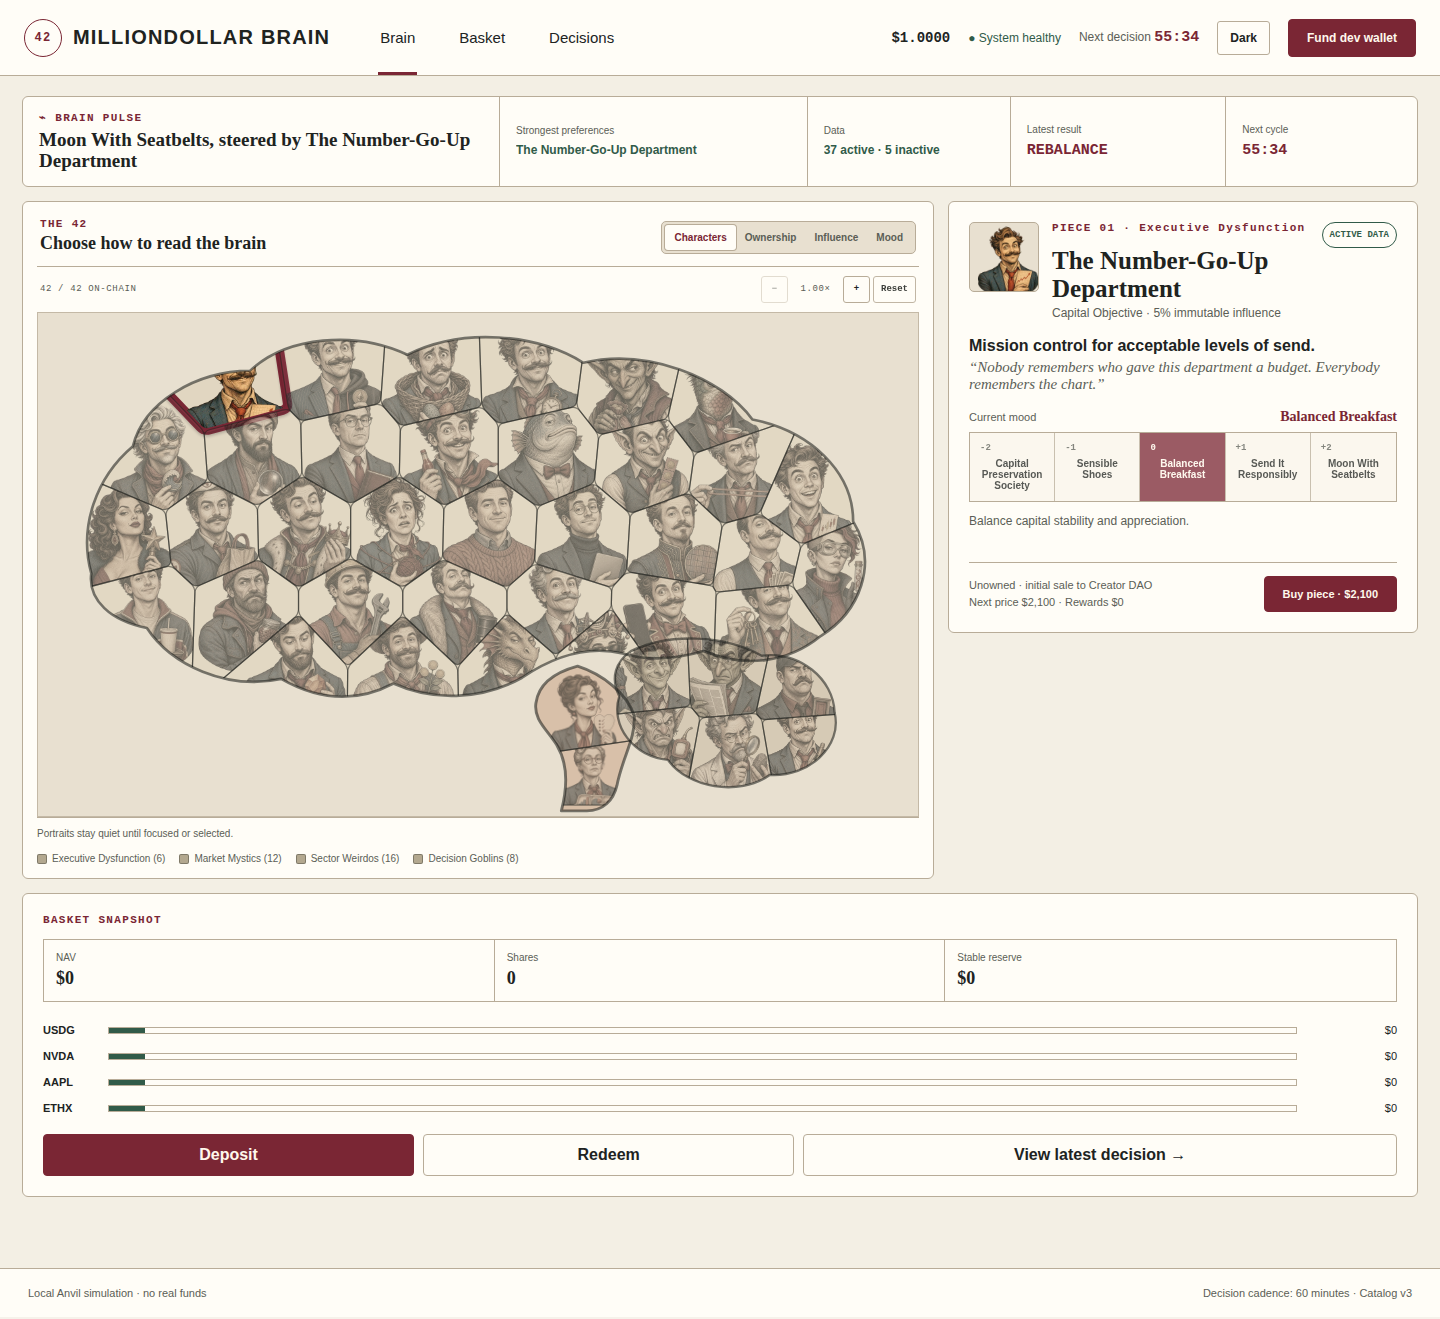
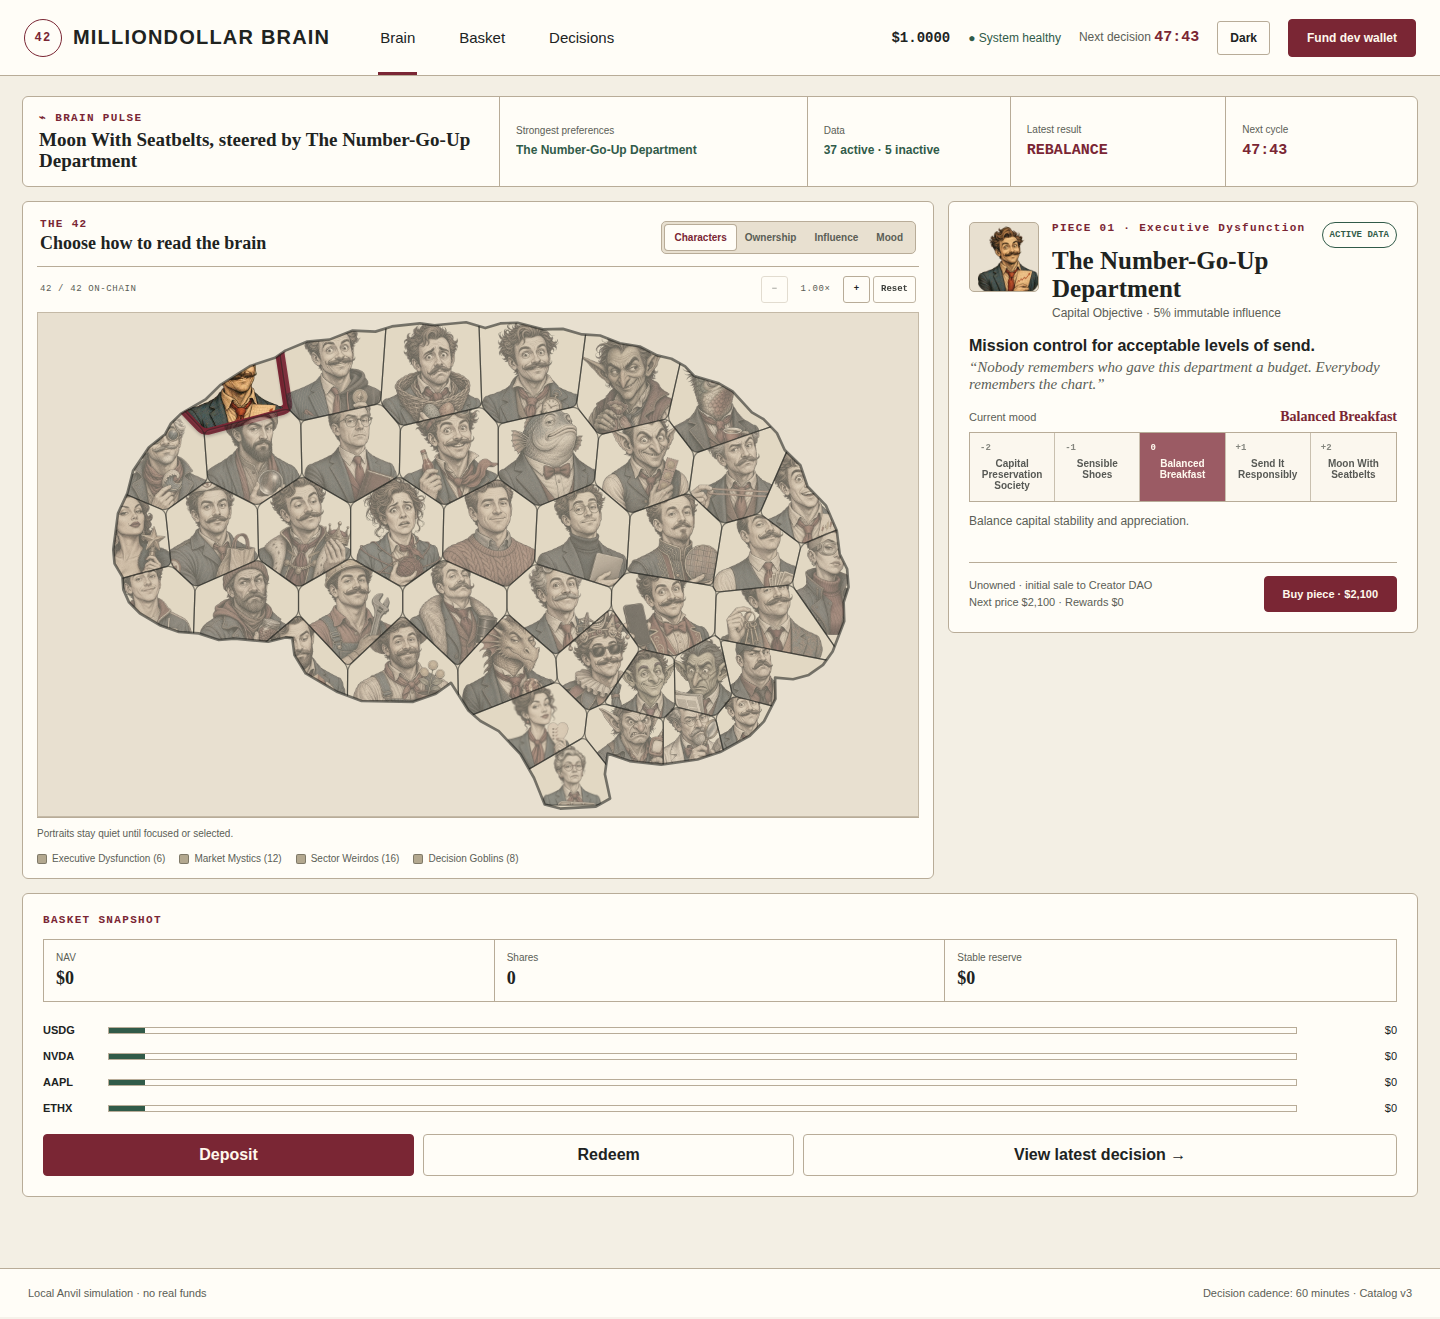
Unify the mosaic under a traced brain silhouette

diff --git a/apps/web/lib/brain-presentation.ts b/apps/web/lib/brain-presentation.ts
@@ -24,14 +24,8 @@ type Placement = {
   portraitY?: number;
 };
 
-export const BRAIN_REGION_PATHS: Record<BrainRegion, string> = {
-  cerebrum:
-    "M46 225C35 185 50 142 82 115C91 77 137 50 183 50C215 20 274 15 319 36C367 12 431 18 471 43C525 30 590 55 617 92C667 102 704 137 704 180C726 216 710 258 676 279C648 302 610 307 575 292C548 300 525 300 505 294C470 286 440 300 418 315C382 335 340 335 307 320C271 339 238 332 210 316C163 326 115 304 94 272C63 266 43 248 46 225Z",
-  cerebellum:
-    "M512 292C545 276 593 278 625 296C658 292 687 316 688 345C695 374 666 401 632 399C605 418 561 410 544 386C514 383 494 356 502 331C494 315 499 301 512 292Z",
-  brainstem:
-    "M466 305C488 312 509 329 515 348C516 368 505 383 500 408C497 421 488 430 474 430L452 430C458 407 457 388 448 373C439 359 428 351 430 337C432 322 444 311 466 305Z",
-};
+export const BRAIN_SILHOUETTE_PATH =
+  "M451 428L481.8 426.3L494.1 419.3L489.6 398.3L492 380.5L510.9 387L538.2 390.1L569.6 385.6L589.2 379.2L614.7 365.1L627 352.7L636.9 333.3L636.6 314.9L652.1 316.3L665.7 312.6L678 303.9L686.3 292.4L696.3 266.2L695.8 249.9L700 236.8L698.8 221.1L692.4 208.3L689.9 188.1L680.4 166.1L664.6 149.8L658.4 131.5L644.9 118.3L638.2 103.7L626.6 91.7L616.5 85.9L599.9 67.7L588 60.8L566.7 54.4L558.9 46.1L547.1 39.5L534.7 36.6L519.8 28.9L502.6 26.1L485.4 19.4L469.9 18.5L453.3 13.7L436.1 14.1L414.2 8.4L399.3 9L386.3 13L369.7 8L342.4 10.6L329.9 8.9L305.6 11.6L291.4 16.1L271.8 15.2L251.6 23L232.6 24.6L213.6 32.5L204.7 38.7L183.4 45.7L157.3 62.3L145.1 74.3L123.5 86.9L114.8 95.3L109.8 104.7L95.6 116.2L82.1 136.2L77.2 155.6L69.1 172.9L65 204.3L66.1 216.4L72.9 227.9L73.7 238.9L78.6 249.9L87.9 259.3L105.1 269.6L121.7 275.5L138.8 276.7L156.1 282.4L169.7 281.2L198.8 283.9L213.6 280.2L219.6 280.9L221.5 295.5L231.2 311.3L258.7 327.4L279.5 335.1L324 335.8L343.6 328.8L356.6 319.4L371.7 343.3L382.1 352.4L397.9 361.1L416.6 381L428.4 401.6L437.6 424.5Z";
 
 const rows: readonly (readonly Placement[])[] = [
   [
@@ -82,8 +76,8 @@ const rows: readonly (readonly Placement[])[] = [
     {
       id: 35,
       region: "cerebellum",
-      x: 530,
-      y: 319,
+      x: 525,
+      y: 326,
       rx: 45,
       ry: 38,
       portraitScale: 0.88,
@@ -91,8 +85,8 @@ const rows: readonly (readonly Placement[])[] = [
     {
       id: 36,
       region: "cerebellum",
-      x: 595,
-      y: 316,
+      x: 575,
+      y: 325,
       rx: 45,
       ry: 38,
       portraitScale: 0.88,
@@ -100,8 +94,8 @@ const rows: readonly (readonly Placement[])[] = [
     {
       id: 37,
       region: "cerebellum",
-      x: 655,
-      y: 329,
+      x: 620,
+      y: 315,
       rx: 42,
       ry: 38,
       portraitScale: 0.82,
@@ -111,8 +105,8 @@ const rows: readonly (readonly Placement[])[] = [
     {
       id: 38,
       region: "cerebellum",
-      x: 535,
-      y: 367,
+      x: 515,
+      y: 365,
       rx: 43,
       ry: 36,
       portraitScale: 0.84,
@@ -120,8 +114,8 @@ const rows: readonly (readonly Placement[])[] = [
     {
       id: 39,
       region: "cerebellum",
-      x: 600,
-      y: 379,
+      x: 565,
+      y: 365,
       rx: 43,
       ry: 36,
       portraitScale: 0.84,
@@ -129,8 +123,8 @@ const rows: readonly (readonly Placement[])[] = [
     {
       id: 40,
       region: "cerebellum",
-      x: 658,
-      y: 369,
+      x: 610,
+      y: 354,
       rx: 40,
       ry: 36,
       portraitScale: 0.78,
@@ -140,8 +134,8 @@ const rows: readonly (readonly Placement[])[] = [
     {
       id: 41,
       region: "brainstem",
-      x: 470,
-      y: 348,
+      x: 430,
+      y: 355,
       rx: 34,
       ry: 38,
       portraitScale: 0.72,
@@ -149,8 +143,8 @@ const rows: readonly (readonly Placement[])[] = [
     {
       id: 42,
       region: "brainstem",
-      x: 478,
-      y: 402,
+      x: 461,
+      y: 408,
       rx: 34,
       ry: 34,
       portraitScale: 0.68,
@@ -198,7 +192,7 @@ function roundedVoronoiPath(source: Placement) {
     { x: 28, y: 425 },
   ];
   for (const target of allPlacements) {
-    if (target.id === source.id || target.region !== source.region) continue;
+    if (target.id === source.id) continue;
     const a = 2 * (target.x - source.x);
     const b = 2 * (target.y - source.y);
     const limit =

diff --git a/apps/web/components/brain-map.tsx b/apps/web/components/brain-map.tsx
@@ -11,7 +11,7 @@ import { formatUnits } from "viem";
 import {
   BRAIN_PRESENTATION,
   BRAIN_PRESENTATION_BY_ID,
-  BRAIN_REGION_PATHS,
+  BRAIN_SILHOUETTE_PATH,
   type BrainDirection,
   type BrainMapMode,
 } from "../lib/brain-presentation";
@@ -232,15 +232,8 @@ export function BrainMap({
             >
               <defs>
                 <clipPath id="brain-boundary">
-                  {Object.entries(BRAIN_REGION_PATHS).map(([region, path]) => (
-                    <path d={path} key={region} />
-                  ))}
+                  <path d={BRAIN_SILHOUETTE_PATH} />
                 </clipPath>
-                {Object.entries(BRAIN_REGION_PATHS).map(([region, path]) => (
-                  <clipPath id={`brain-region-${region}`} key={region}>
-                    <path d={path} />
-                  </clipPath>
-                ))}
                 <pattern
                   id="ownership-owned"
                   width="8"
@@ -263,16 +256,11 @@ export function BrainMap({
                   </clipPath>
                 ))}
               </defs>
-              {(["brainstem", "cerebellum", "cerebrum"] as const).map(
-                (region) => (
-                  <path
-                    className={`brain-backplate region-${region}`}
-                    d={BRAIN_REGION_PATHS[region]}
-                    key={region}
-                    aria-hidden="true"
-                  />
-                ),
-              )}
+              <path
+                className="brain-backplate"
+                d={BRAIN_SILHOUETTE_PATH}
+                aria-hidden="true"
+              />
               <g clipPath="url(#brain-boundary)">
                 {pieces.map((piece) => {
                   const presentation = BRAIN_PRESENTATION_BY_ID.get(piece.id);
@@ -301,7 +289,7 @@ export function BrainMap({
                         } as CSSProperties
                       }
                       key={piece.id}
-                      clipPath={`url(#brain-region-${presentation.region})`}
+                      data-region={presentation.region}
                       role="button"
                       tabIndex={selectedId === piece.id ? 0 : -1}
                       aria-label={label}
@@ -346,16 +334,11 @@ export function BrainMap({
                   );
                 })}
               </g>
-              {(["brainstem", "cerebellum", "cerebrum"] as const).map(
-                (region) => (
-                  <path
-                    className={`brain-outline region-${region}`}
-                    d={BRAIN_REGION_PATHS[region]}
-                    key={region}
-                    aria-hidden="true"
-                  />
-                ),
-              )}
+              <path
+                className="brain-outline"
+                d={BRAIN_SILHOUETTE_PATH}
+                aria-hidden="true"
+              />
             </svg>
             {previewPiece &&
               (() => {

diff --git a/apps/web/app/globals.css b/apps/web/app/globals.css
@@ -1407,20 +1407,8 @@ footer {
   fill: color-mix(in srgb, var(--surface-subtle) 76%, #c9b88f);
   stroke: none;
 }
-.brain-backplate.region-cerebellum {
-  fill: color-mix(in srgb, var(--surface-subtle) 68%, #a99672);
-}
-.brain-backplate.region-brainstem {
-  fill: color-mix(in srgb, var(--surface-subtle) 62%, #b8845e);
-}
 .editorial-dark .brain-backplate {
   fill: color-mix(in srgb, var(--surface-subtle) 88%, #5b5143);
-}
-.editorial-dark .brain-backplate.region-cerebellum {
-  fill: color-mix(in srgb, var(--surface-subtle) 78%, #665846);
-}
-.editorial-dark .brain-backplate.region-brainstem {
-  fill: color-mix(in srgb, var(--surface-subtle) 70%, #735548);
 }
 .brain-outline {
   fill: none;
@@ -1428,12 +1416,6 @@ footer {
   stroke-width: 2.3;
   stroke-linejoin: round;
   pointer-events: none;
-}
-.brain-outline.region-cerebellum {
-  stroke-width: 2;
-}
-.brain-outline.region-brainstem {
-  stroke-width: 2.5;
 }
 .brain-cell {
   cursor: pointer;

diff --git a/MEMORY.md b/MEMORY.md
@@ -5,7 +5,7 @@ Durable project context lives here. Update this file whenever information should
 ## Active Handoff
 
 - Current task: Finish and verify the usable local-devnet release on VM `192.168.50.135`.
-- Last meaningful change: Replaced the blob-like mosaic mask and mismatched raster brain with an authored lateral-anatomy SVG composed of a cerebrum, lower-rear cerebellum, and tapered brainstem.
+- Last meaningful change: Replaced the failed three-blob anatomy with one continuous SVG silhouette traced from the anatomically convincing source artwork; all 42 cells now share that mask.
 - Next step: Keep the native services healthy and use the release at `http://192.168.50.135:3000`; Robinhood public testnet work begins only when canonical asset, oracle, venue, signer, and RPC inputs are supplied.
 - Blockers: None for local use. Real-value activation remains gated on counsel, production integrations and credentials, multisig/timelock migration, a professional audit, and Robinhood Chain release manifests.
 
@@ -13,7 +13,7 @@ Durable project context lives here. Update this file whenever information should
 
 - MillionDollar Brain is a proposed Robinhood Chain product combining a basket-backed share, a 42-piece community-controlled AI context, scheduled portfolio proposals, deterministic risk controls, and fee-funded creator/brain rewards.
 - The authoritative VM repository contains a working local Anvil release with upgradeable contracts, a Next.js application, built-in development wallet, hourly Ornith allocator, systemd services, and Playwright Chromium UAT.
-- The 42-piece visual brain uses 34 cerebrum pieces, 6 cerebellum pieces, and 2 brainstem pieces while preserving every canonical NFT ID and all economic mappings.
+- The 42-piece visual brain uses one continuous traced lateral silhouette. Semantic placement metadata labels 34 cerebrum pieces, 6 cerebellum pieces, and 2 brainstem pieces while preserving every canonical NFT ID and all economic mappings.
 - `PRD.md` v1.0 plus its ten linked normative specifications is the authoritative requirements set.
 - `PRODUCT_BRIEF.md` is superseded historical context.
 - No internal MVP implementation decision remains open. `BUILD_READINESS.md` distinguishes locked engineering defaults from external production inputs and release gates.
@@ -131,11 +131,11 @@ When sources conflict, use this order:
 ### 2026-07-26 - Anatomical Brain Silhouette
 
 - Context: The rounded global mask and stretched raster background made the 42-piece mosaic read as a blob rather than a convincing brain.
-- Decision: Make the SVG presentation manifest the anatomical source of truth. Use separate lateral cerebrum, lower-rear cerebellum, and tapered brainstem regions containing 34, 6, and 2 pieces respectively. Retire the raster brain background.
+- Decision: Make the SVG presentation manifest the anatomical source of truth. Trace one continuous outer contour from the convincing anatomical source and tessellate all 42 cells inside it. Keep 34 cerebrum, 6 cerebellum, and 2 brainstem labels as placement metadata only, with no separate region outlines. Retire the raster brain background.
 - Files: `apps/web/lib/brain-presentation.ts`, `apps/web/components/brain-map.tsx`, `apps/web/app/globals.css`, `tests/uat.mjs`, `PRD.md`, `DESIGN_SYSTEM.md`, `BUILD_READINESS.md`, `design/brain-art/README.md`.
 - Commands/tests: Prettier, Next.js production build, clean-state Chromium UAT, live Ornith cycle, light/dark/mobile screenshot review.
-- Result: The mosaic has a recognizable lateral brain profile, distinct cerebellum and fissure, and tapered brainstem without changing NFT identities, contracts, APIs, wallet behavior, or economics.
-- Follow-up: None for local release; retain the three-region anatomy if portrait transforms are adjusted later.
+- Result: The mosaic has a recognizable continuous lateral brain profile without changing NFT identities, contracts, APIs, wallet behavior, or economics.
+- Follow-up: None for local release; retain the single shared outer mask if portrait transforms are adjusted later.
 
 ### 2026-07-23 - User-Triggered Portfolio Reviews
 

diff --git a/PRD.md b/PRD.md
@@ -659,7 +659,7 @@ The accepted editorial mockups below are normative parts of the PRD. `DESIGN_SYS
 
 ![Brain dark mode](design/mockups/brain-screen-v3-refined-dark.png)
 
-The implemented Brain map uses 42 individually generated v2 catalog-character portraits inside an authored lateral-anatomy SVG silhouette. The silhouette separates 34 cerebrum pieces, 6 lower-rear cerebellum pieces, and 2 angled brainstem pieces, making the brain recognizable without relying on a mismatched raster background. A separate 42-entry presentation manifest owns region membership, curved segment geometry, visual centers, directional keyboard neighbors, and portrait transforms without changing the canonical economic catalog. Characters is the quiet default view; Ownership, Influence, and Mood expose distinct semantic layers with textual legends and counts. Hover and focus preview a tooltip without changing selection. Click, tap, Enter, and Space select; arrows use explicit spatial neighbors; Home and End select the canonical first and last pieces. The map supports 1 through 2.5 times zoom in a native scrolling viewport, and mobile adds a searchable List view. The complete inspector permanently occupies the desktop right rail, Brain Pulse is a full-width summary strip, and Basket Snapshot follows the primary area. Numbers and generic glyphs do not cover the portraits. The final art roster and generation direction are recorded in [`design/brain-art/README.md`](design/brain-art/README.md).
+The implemented Brain map uses 42 individually generated v2 catalog-character portraits inside one continuous anatomically traced lateral-brain SVG silhouette. The trace supplies a convincing crown, frontal profile, temporal underside, connected cerebellar mass, and brainstem without relying on a mismatched raster background or separate blob outlines. The presentation manifest labels 34 pieces as cerebrum, 6 as cerebellum, and 2 as brainstem to guide placement, but all 42 cells share one outer mask and one tessellation. The manifest also owns curved segment geometry, visual centers, directional keyboard neighbors, and portrait transforms without changing the canonical economic catalog. Characters is the quiet default view; Ownership, Influence, and Mood expose distinct semantic layers with textual legends and counts. Hover and focus preview a tooltip without changing selection. Click, tap, Enter, and Space select; arrows use explicit spatial neighbors; Home and End select the canonical first and last pieces. The map supports 1 through 2.5 times zoom in a native scrolling viewport, and mobile adds a searchable List view. The complete inspector permanently occupies the desktop right rail, Brain Pulse is a full-width summary strip, and Basket Snapshot follows the primary area. Numbers and generic glyphs do not cover the portraits. The final art roster and generation direction are recorded in [`design/brain-art/README.md`](design/brain-art/README.md).
 
 #### Basket
 

diff --git a/design/brain-art/README.md b/design/brain-art/README.md
@@ -3,7 +3,7 @@
 The Brain screen uses a hybrid art and interaction system:
 
 - `apps/web/public/brain-art/v2/piece-01.webp` through `piece-42.webp` are the current transparent collectible portraits in canonical catalog order. The versioned directory prevents stale browser caches.
-- `apps/web/lib/brain-presentation.ts` is the 42-entry visual manifest and anatomical source of truth. It defines the cerebrum, lower-rear cerebellum, angled brainstem, curved path geometry, centers, directional keyboard neighbors, and portrait transforms separately from economic catalog data.
+- `apps/web/lib/brain-presentation.ts` is the 42-entry visual manifest and anatomical source of truth. It contains one continuous traced lateral-brain silhouette plus semantic cerebrum, cerebellum, and brainstem placement metadata, curved path geometry, centers, directional keyboard neighbors, and portrait transforms separately from economic catalog data.
 - `apps/web/components/brain-map.tsx` uses those 42 accessible SVG paths for hit testing, roving keyboard focus, ownership state, selection, data-mode fills, and clipping.
 - The raster artwork is presentation only. It never replaces the accessible SVG interaction model or the on-chain piece identity.
 
@@ -25,7 +25,7 @@ The magenta sources were keyed with the ImageGen chroma-key helper, downsampled 
 - The 42 v2 portraits total approximately 1.8 MB.
 - Portraits are clipped to their own curved SVG segment.
 - Theme-aware vector backplates remain visible below transparent portrait areas.
-- The anatomical distribution is 34 cerebrum pieces, 6 cerebellum pieces, and 2 brainstem pieces. This presentation grouping does not alter catalog IDs or economics.
+- The anatomical distribution is 34 cerebrum pieces, 6 cerebellum pieces, and 2 brainstem pieces. These labels guide placement only: every cell is tessellated inside the same continuous outer mask. This presentation grouping does not alter catalog IDs or economics.
 - Characters mode uses 58% opacity and 35% saturation at rest, 85% on preview, and full color on selection.
 - Ownership, Influence, and Mood may neutralize portraits while accessible legends and the selected-piece inspector communicate the underlying value.
 - Accessible names come from catalog data, not text embedded in the image.

diff --git a/BUILD_READINESS.md b/BUILD_READINESS.md
@@ -7,7 +7,7 @@
 
 The native VM release implements the complete catalog-v3 collection: 42 named ERC-721 characters, four crews, protocol-authored lore, five closed moods per character, immutable portfolio affinities, and signed intensity from -2 through +2. It also implements always-for-sale pricing, basket shares, 1% entry and redemption fees, the 50/40/10 fee split, creator withdrawal vault, owner reward claims, 1%-of-NAV immediate redemption, cancellable FIFO queued redemption with partial 5%-of-NAV hourly settlement, structured allocator context, deterministic output validation, keeper authentication, and systemd scheduling.
 
-The frontend now implements the normative screen hierarchy rather than a consolidated card dashboard: an accessible interactive 42-path SVG Brain marketplace with an authored lateral-anatomy silhouette, 42 individually generated v2 character portraits, four data modes, roving keyboard navigation, map zoom, a searchable mobile list, compact Brain Pulse, and a complete selected-piece right rail. The silhouette has distinct cerebrum, cerebellum, and brainstem regions while SVG remains the interaction and clipping layer. Both editorial light and dark modes are validated against live normative screenshots.
+The frontend now implements the normative screen hierarchy rather than a consolidated card dashboard: an accessible interactive 42-path SVG Brain marketplace with one continuous anatomically traced lateral-brain silhouette, 42 individually generated v2 character portraits, four data modes, roving keyboard navigation, map zoom, a searchable mobile list, compact Brain Pulse, and a complete selected-piece right rail. Cerebrum, cerebellum, and brainstem metadata guide portrait placement without producing separate blob outlines. Both editorial light and dark modes are validated against live normative screenshots.
 
 The Anvil universe intentionally uses four mocks: USDG, NVDA, AAPL, and ETHX. Robinhood Chain asset discovery, canonical live manifests, production oracle/DEX adapters, full ten-position risk limits, multisig/timelock administration, observability, legal review, and independent audits remain release gates rather than unfinished local-product interactions.
 

diff --git a/DESIGN_SYSTEM.md b/DESIGN_SYSTEM.md
@@ -168,7 +168,7 @@ Automated and manual testing still validates rendered contrast after font weight
 - Borders do most of the grouping work; shadows are reserved for overlays.
 - Dense desktop tables become labeled cards below 768 pixels.
 - The 42-piece brain remains an SVG interaction map and never makes raster pixels responsible for hit testing, focus, selection, or ownership state.
-- The visual layer uses an authored lateral-anatomy SVG silhouette plus 42 individually generated, versioned transparent character portraits. The silhouette is composed of cerebrum, cerebellum, and brainstem regions; portraits are tessellated and clipped within their assigned region by the separate presentation manifest.
+- The visual layer uses one continuous anatomically traced lateral-brain SVG silhouette plus 42 individually generated, versioned transparent character portraits. Cerebrum, cerebellum, and brainstem remain semantic placement metadata, but they do not create separate outer outlines or disconnected masks.
 - Characters is the default map mode. Ownership, Influence, and Mood use semantic fills, patterns, textual counts, and accessible names so color never carries meaning alone.
 - Unselected portraits are intentionally subdued. Hover and keyboard focus preview; only click, tap, Enter, or Space commits selection.
 - The inspector permanently owns the desktop right rail. Brain Pulse is a compact full-width summary strip, and Basket Snapshot follows the primary map and inspector.
